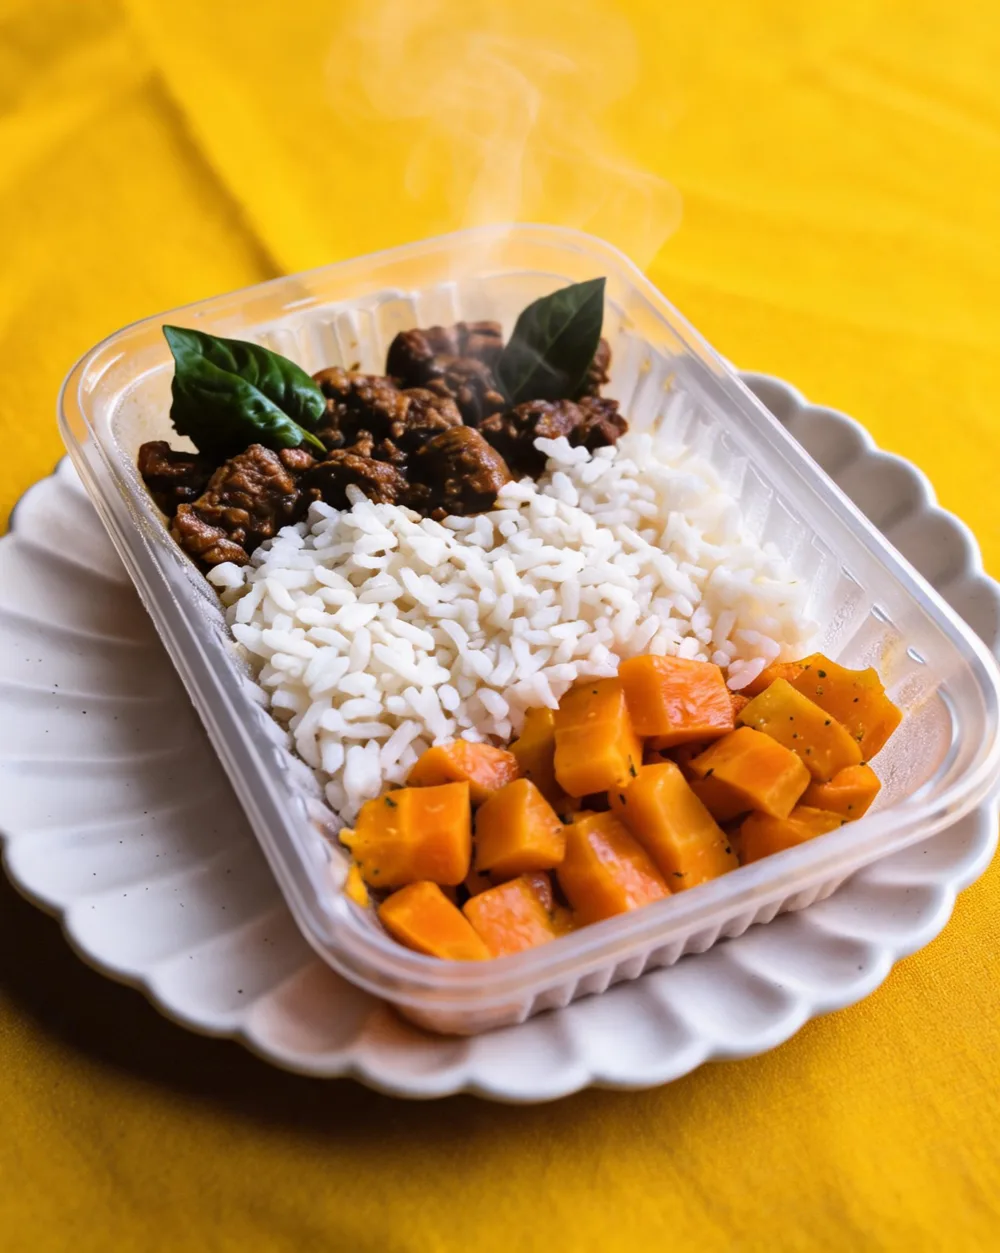
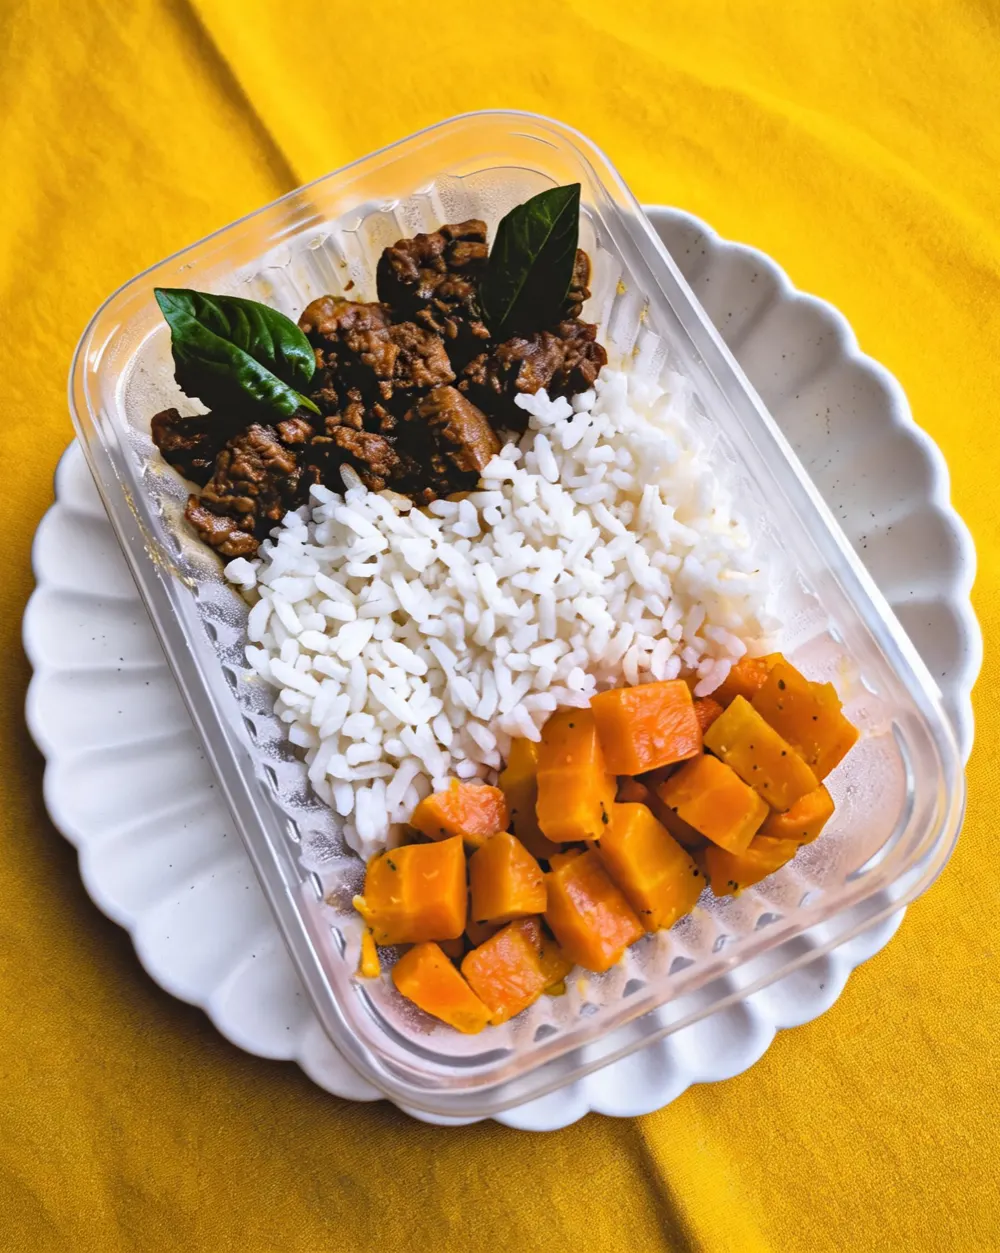
fix: combos subcategory titles contrast + naturalize Picadinho photo
Dois ajustes apontados pelo Marcelo após review visual em produção.

1) Subcategoria de combos invisível no fundo escuro
- Os títulos "Combos Tradicional · 400g" e "Combos Fit · 300g"
  estavam usando color: var(--sage-deep) inline — exatamente a mesma
  cor do background da seção, ficando completamente ilegíveis.
- Idem para o subtítulo de preço (color: var(--espresso-soft)).
- Fix: títulos passam a usar var(--cream) com a categoria
  ("Tradicional"/"Fit") em italic + var(--gold) para destaque
  consistente com o título principal "12 marmitas" em dourado.
- Subtítulo de preço: rgba(250,247,242,0.85) (cream com 85%) + valor
  R$ em var(--gold) — agora claramente legível.

2) Picadinho de Carne com aparência artificial
- Versão anterior tinha vapor saliente, brilhos exagerados, saturação
  boosted que destoavam do natural — Marcelo descreveu como "feia e
  artificial".
- Regerada via Seedream v5 Lite com prompt MUITO mais conservador:
  remove explicitamente steam/sheen/saturation boost/bokeh, instrui
  o modelo a tratar a saída como "near-identical reproduction" da
  foto original da Sil, documentary-style.
- Substitui /img/trad-picadinho.webp (1000×1253, q=78, 139KB —
  ligeiramente maior que os outros por conter mais textura natural
  no tecido amarelo e na carne, sacrifício aceitável).

diff --git a/index.html b/index.html
@@ -678,8 +678,8 @@
         </div>
 
         <!-- Combos Tradicional -->
-        <h3 class="combos-cat-title" style="font-family:var(--font-display);font-size:1.6rem;color:var(--sage-deep);text-align:center;margin:48px 0 8px;font-weight:400;">Combos Tradicional · 400g</h3>
-        <p style="text-align:center;color:var(--espresso-soft);margin-bottom:32px;font-size:.95rem;">12 marmitas · R$ 264 cada · R$ 22 a marmita</p>
+        <h3 class="combos-cat-title" style="font-family:var(--font-display);font-size:1.6rem;color:var(--cream);text-align:center;margin:48px 0 8px;font-weight:400;">Combos <em style="font-family:var(--font-display-italic);font-style:italic;color:var(--gold);">Tradicional</em> · 400g</h3>
+        <p style="text-align:center;color:rgba(250,247,242,0.85);margin-bottom:32px;font-size:.95rem;">12 marmitas · <strong style="color:var(--gold);">R$ 264 cada</strong> · R$ 22 a marmita</p>
 
         <div class="combos-grid" style="margin: 0 auto;">
           <div class="combo-card reveal reveal-d1">
@@ -752,8 +752,8 @@
         </div>
 
         <!-- Combos Fit -->
-        <h3 class="combos-cat-title" style="font-family:var(--font-display);font-size:1.6rem;color:var(--sage-deep);text-align:center;margin:64px 0 8px;font-weight:400;">Combos Fit · 300g</h3>
-        <p style="text-align:center;color:var(--espresso-soft);margin-bottom:32px;font-size:.95rem;">12 marmitas · R$ 240 cada · R$ 20 a marmita</p>
+        <h3 class="combos-cat-title" style="font-family:var(--font-display);font-size:1.6rem;color:var(--cream);text-align:center;margin:64px 0 8px;font-weight:400;">Combos <em style="font-family:var(--font-display-italic);font-style:italic;color:var(--gold);">Fit</em> · 300g</h3>
+        <p style="text-align:center;color:rgba(250,247,242,0.85);margin-bottom:32px;font-size:.95rem;">12 marmitas · <strong style="color:var(--gold);">R$ 240 cada</strong> · R$ 20 a marmita</p>
 
         <div class="combos-grid" style="margin: 0 auto;">
           <div class="combo-card featured reveal reveal-d1">
